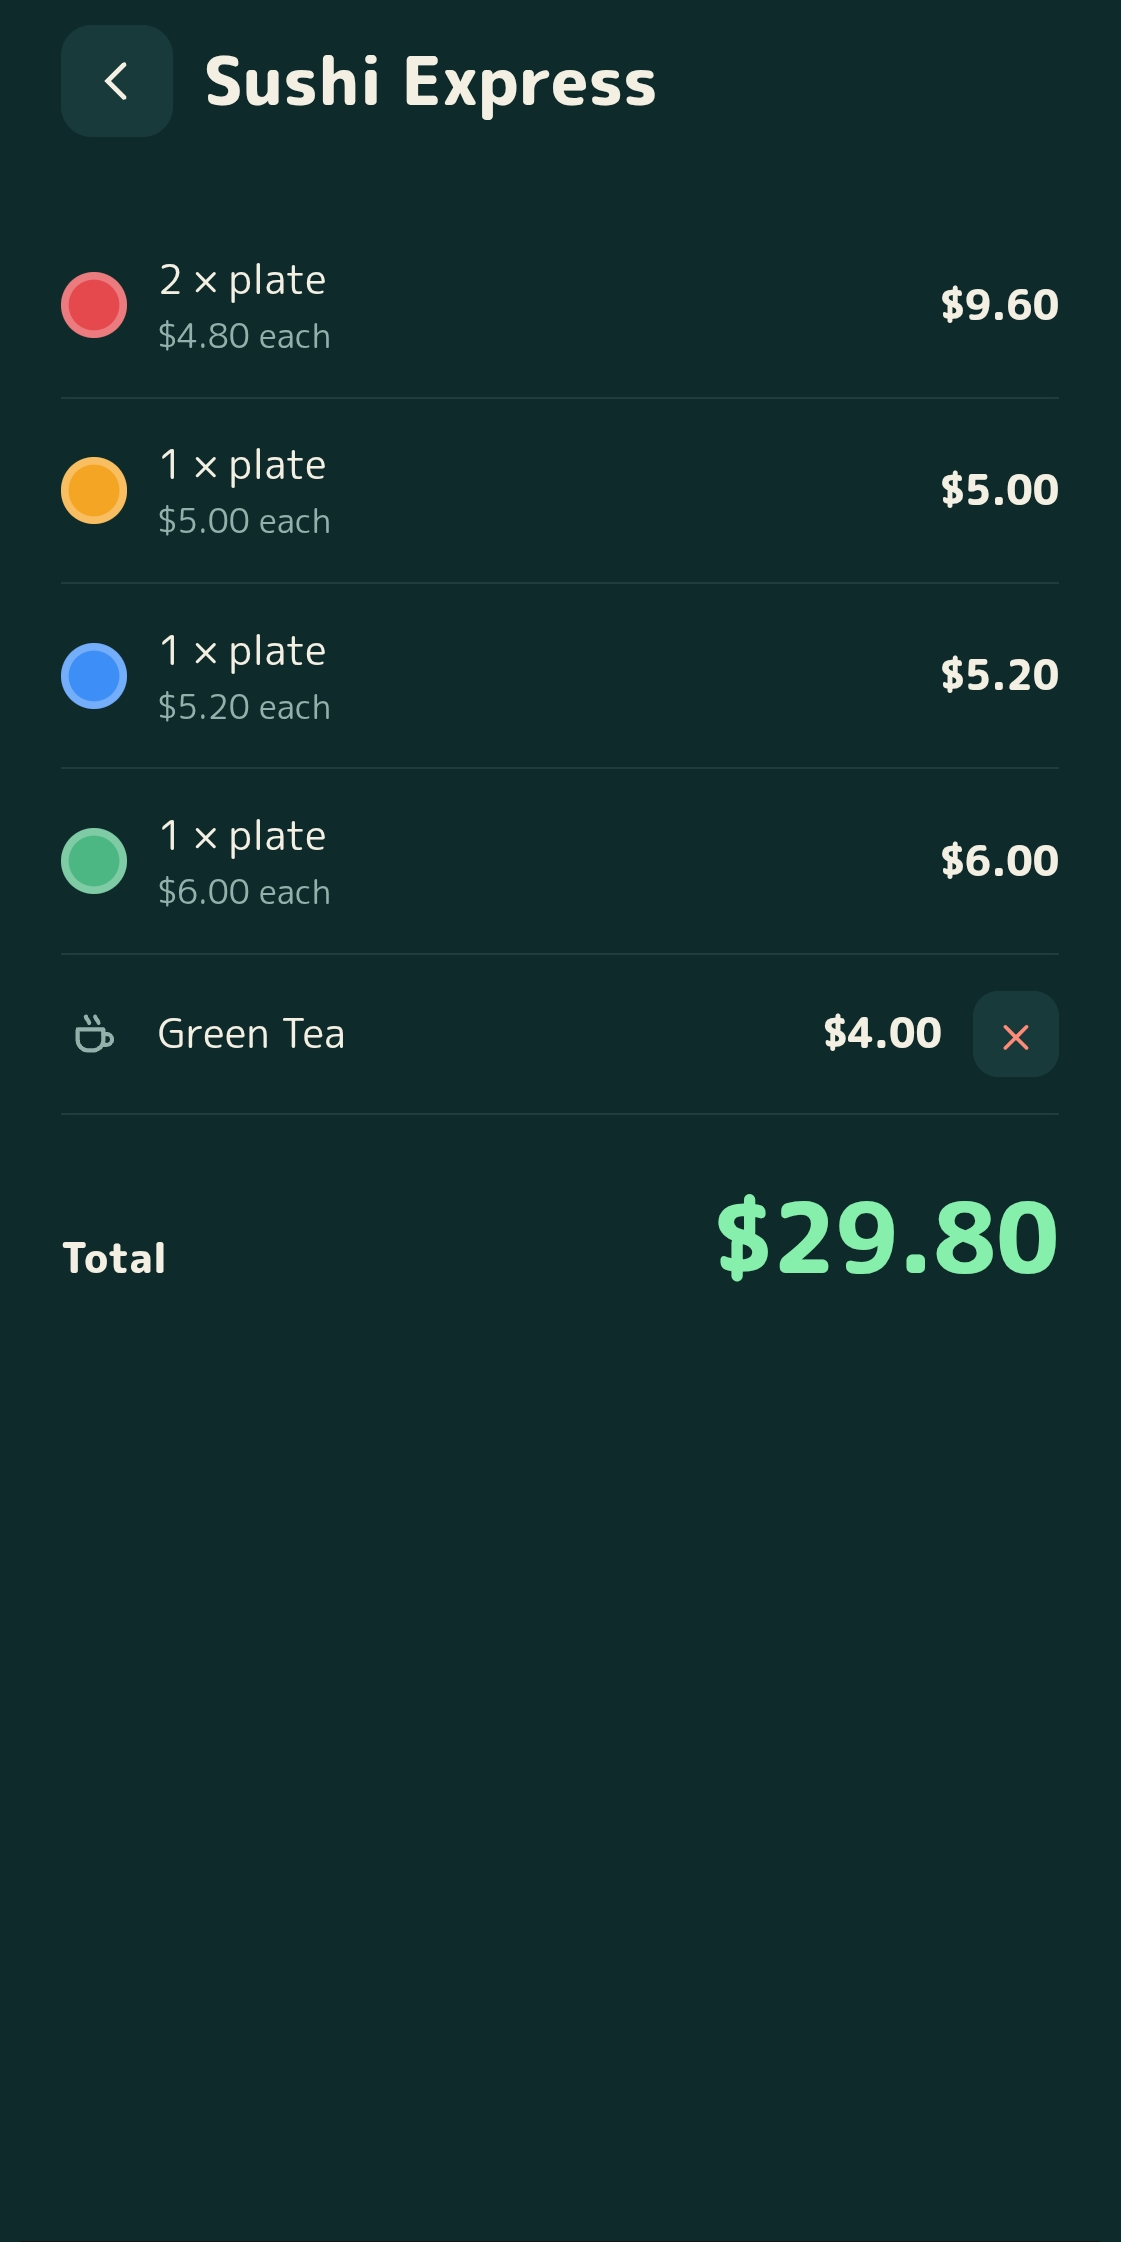
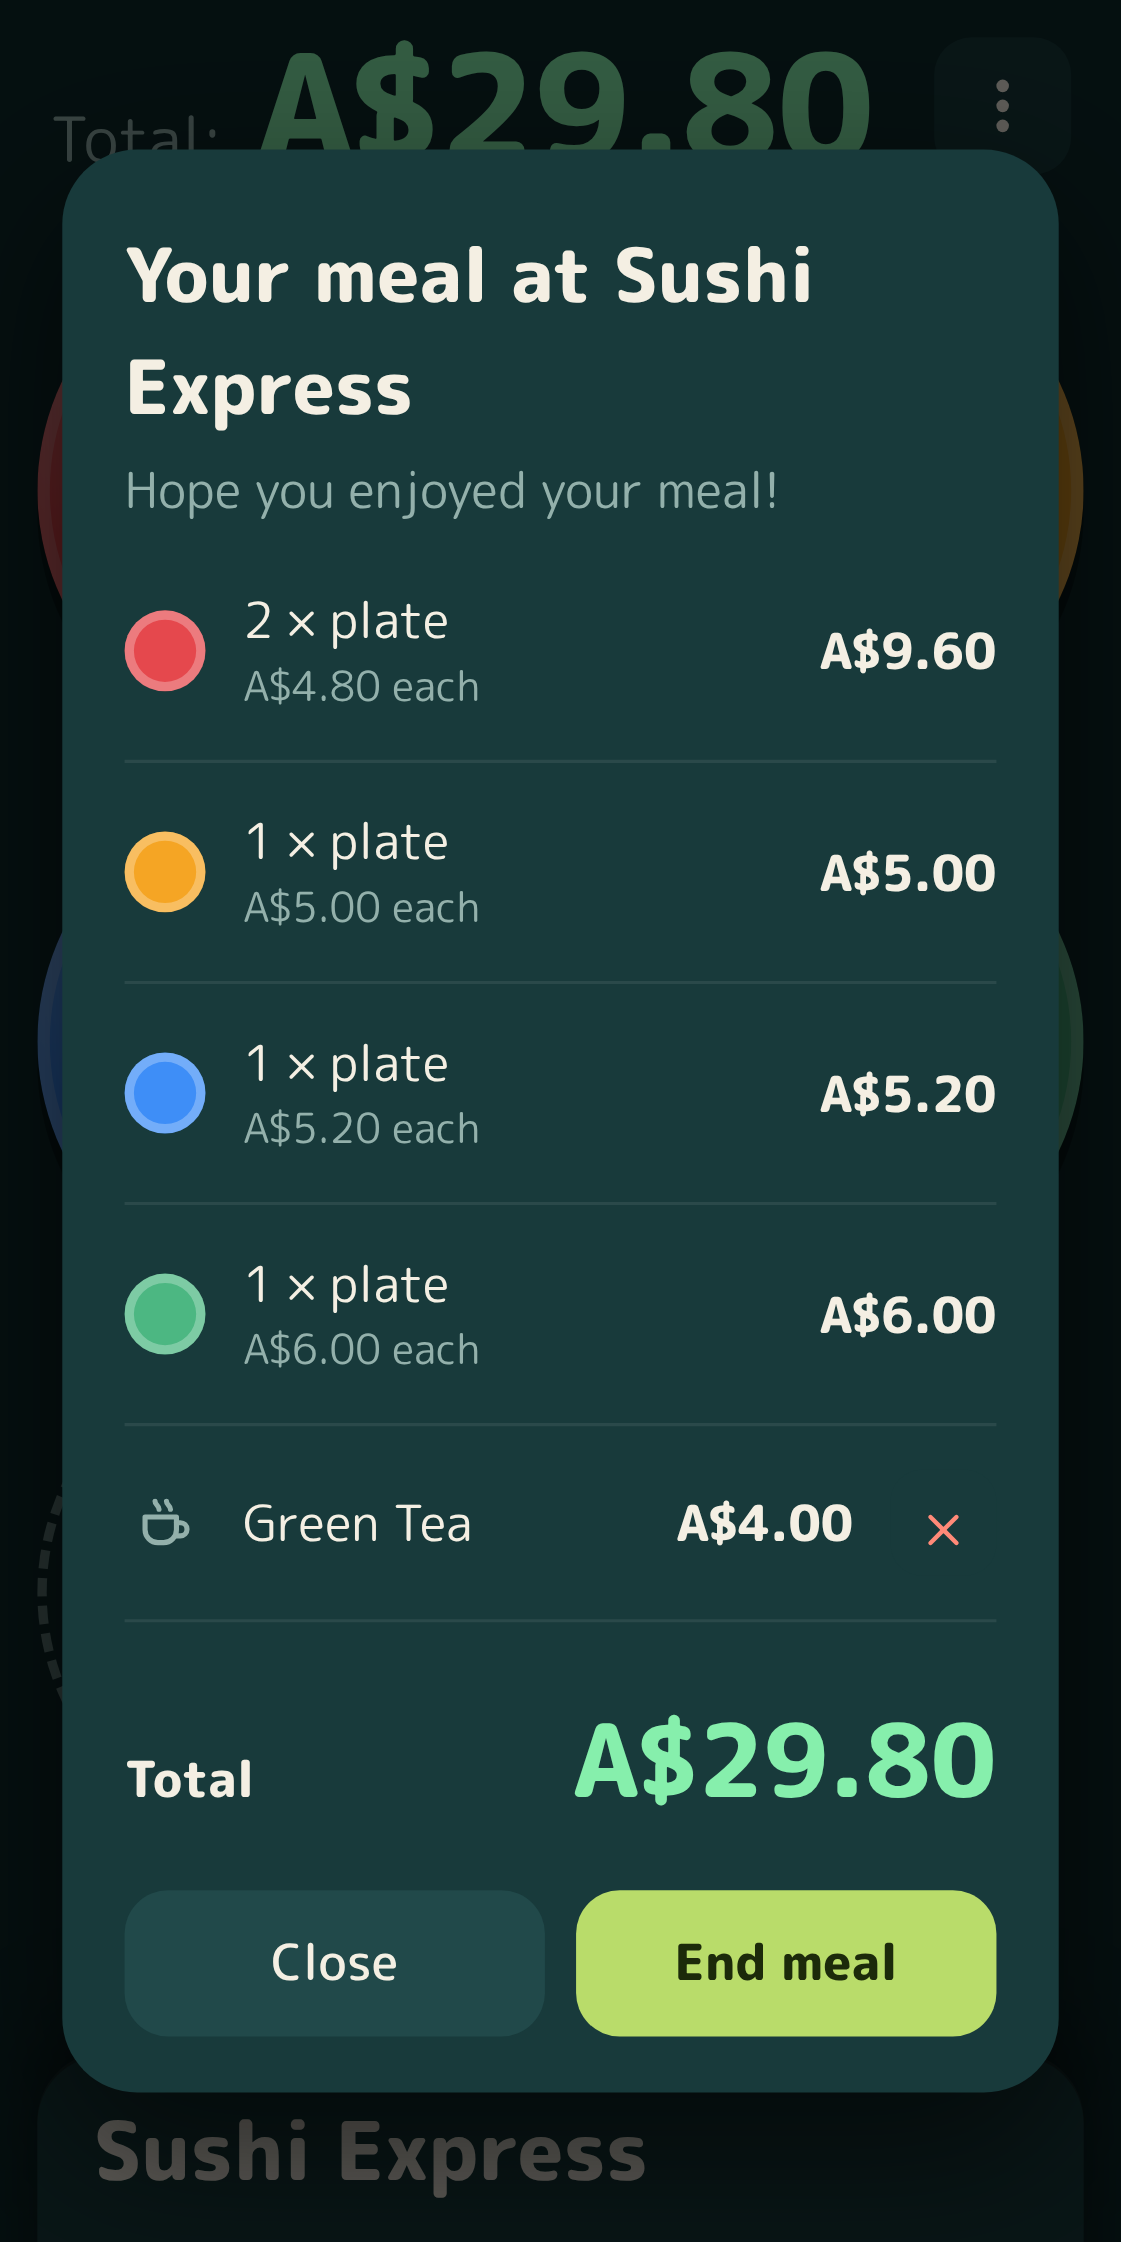
Package release: share by QR code, keep screen on, end meal
Version label, Play listing and release notes, new itemised-bill screenshot.

Claude-Session: https://claude.ai/code/session_01EVkvwbDAkAApqdwDrP6qkF

diff --git a/src/js/01-config-state.js b/src/js/01-config-state.js
@@ -1,5 +1,5 @@
 /* ============ config ============ */
-const BUILD = '22 Oct 2026 · share by QR code';   // shown on the landing page so you can tell which copy is running
+const BUILD = '22 Oct 2026 · share by QR code, end meal';   // shown on the landing page so you can tell which copy is running
 const BUILD_ID = 'dev';   // stamped with the git commit by update.sh
 const KEY = 'plateTally.v1';
 const SWATCHES = ['#e5484d','#f5a524','#f2d74a','#4cb782','#3e8ef7','#8b5cf6','#e8e2d4','#2b2b2b'];

diff --git a/store/listing.md b/store/listing.md
@@ -20,12 +20,14 @@ EVERYTHING IS FREE
 • Tap a plate to add it, with a big running total at the top
 • Colour-coded plates with the price shown on each one, as many as your restaurant has
 • Took one by mistake? Remove-a-plate mode takes it off again
-• An itemised bill showing every plate colour and the total
+• An itemised bill showing every plate colour and the total, and End meal to clear it when you leave
 • Add drinks and other extras with a price and a short description
 • Saved menu items: pick your usual drink in one tap, with suggestions from your other restaurants
 • As many restaurants as you like, each with its own bill and its own currency
 • A quick restaurant picker that shows your bills in progress
 • Your bill is saved on your phone, so it is still there if you close the app
+• Share your restaurants with a friend by QR code, phone to phone, no internet needed
+• Keep screen on, so your phone doesn't go to sleep while you eat
 • Works offline, on phones and tablets
 
 PRIVATE AND SIMPLE
@@ -51,14 +53,20 @@ Perfect for solo diners, families, and anyone who has ever lost count of the pla
 |---|---|
 | App access | All functionality is available without special access |
 | Ads | No, the app does not contain ads |
-| Content rating | Category "Utility, Productivity, Communication or Other". Answer No to every question about violence, sexual content, language, gambling, drugs, and user-generated content or sharing. Expect "Everyone". |
+| Content rating | Category "Utility, Productivity, Communication or Other". Answer No to every question about violence, sexual content, language, gambling, drugs, and user-generated content or sharing (QR sharing is phone to phone and never goes over the internet, so it is not online sharing). Expect "Everyone". |
 | Target audience | 18 and over. This keeps you clear of the Families policy, which applies if you target children. |
 | News app / COVID-19 / Government / Health / Financial features | No / No / No / No / None |
 | Data safety | Does the app collect or share any user data? No. Is data encrypted in transit? Yes (the app is loaded over HTTPS). See the note below. |
 
-**Data safety note.** The app collects nothing: restaurants, prices and bills stay on the phone, there are no accounts, no analytics, no ads and no purchases, and the font is bundled so there are no third-party requests. The only network traffic is loading the app's own files from your Cloudflare-hosted site, which (like any web host) sees IP addresses. The form is a declaration you make, so read Google's definitions on the form itself and answer the way you are comfortable with. If you later add analytics, accounts or cloud backup, this answer and the privacy policy must change.
+**Data safety note.** The app collects nothing: restaurants, prices and bills stay on the phone, there are no accounts, no analytics, no ads and no purchases, and the font is bundled so there are no third-party requests. The only network traffic is loading the app's own files from your Cloudflare-hosted site, which (like any web host) sees IP addresses. Sharing by QR code does not change this: the camera picture is only read on the phone to find the code, and nothing is sent anywhere, so it is not "collected" in Google's sense. The form is a declaration you make, so read Google's definitions on the form itself and answer the way you are comfortable with. If you later add analytics, accounts or cloud backup, this answer and the privacy policy must change.
 
 ## Release notes
+
+Share and end meal release (22 Oct 2026):
+
+```
+Share your restaurants with a friend by QR code, phone to phone (bills are never shared). Keep screen on while you eat. End meal shows your bill one last time, then clears it.
+```
 
 Everything-free release (21 Oct 2026):
 
